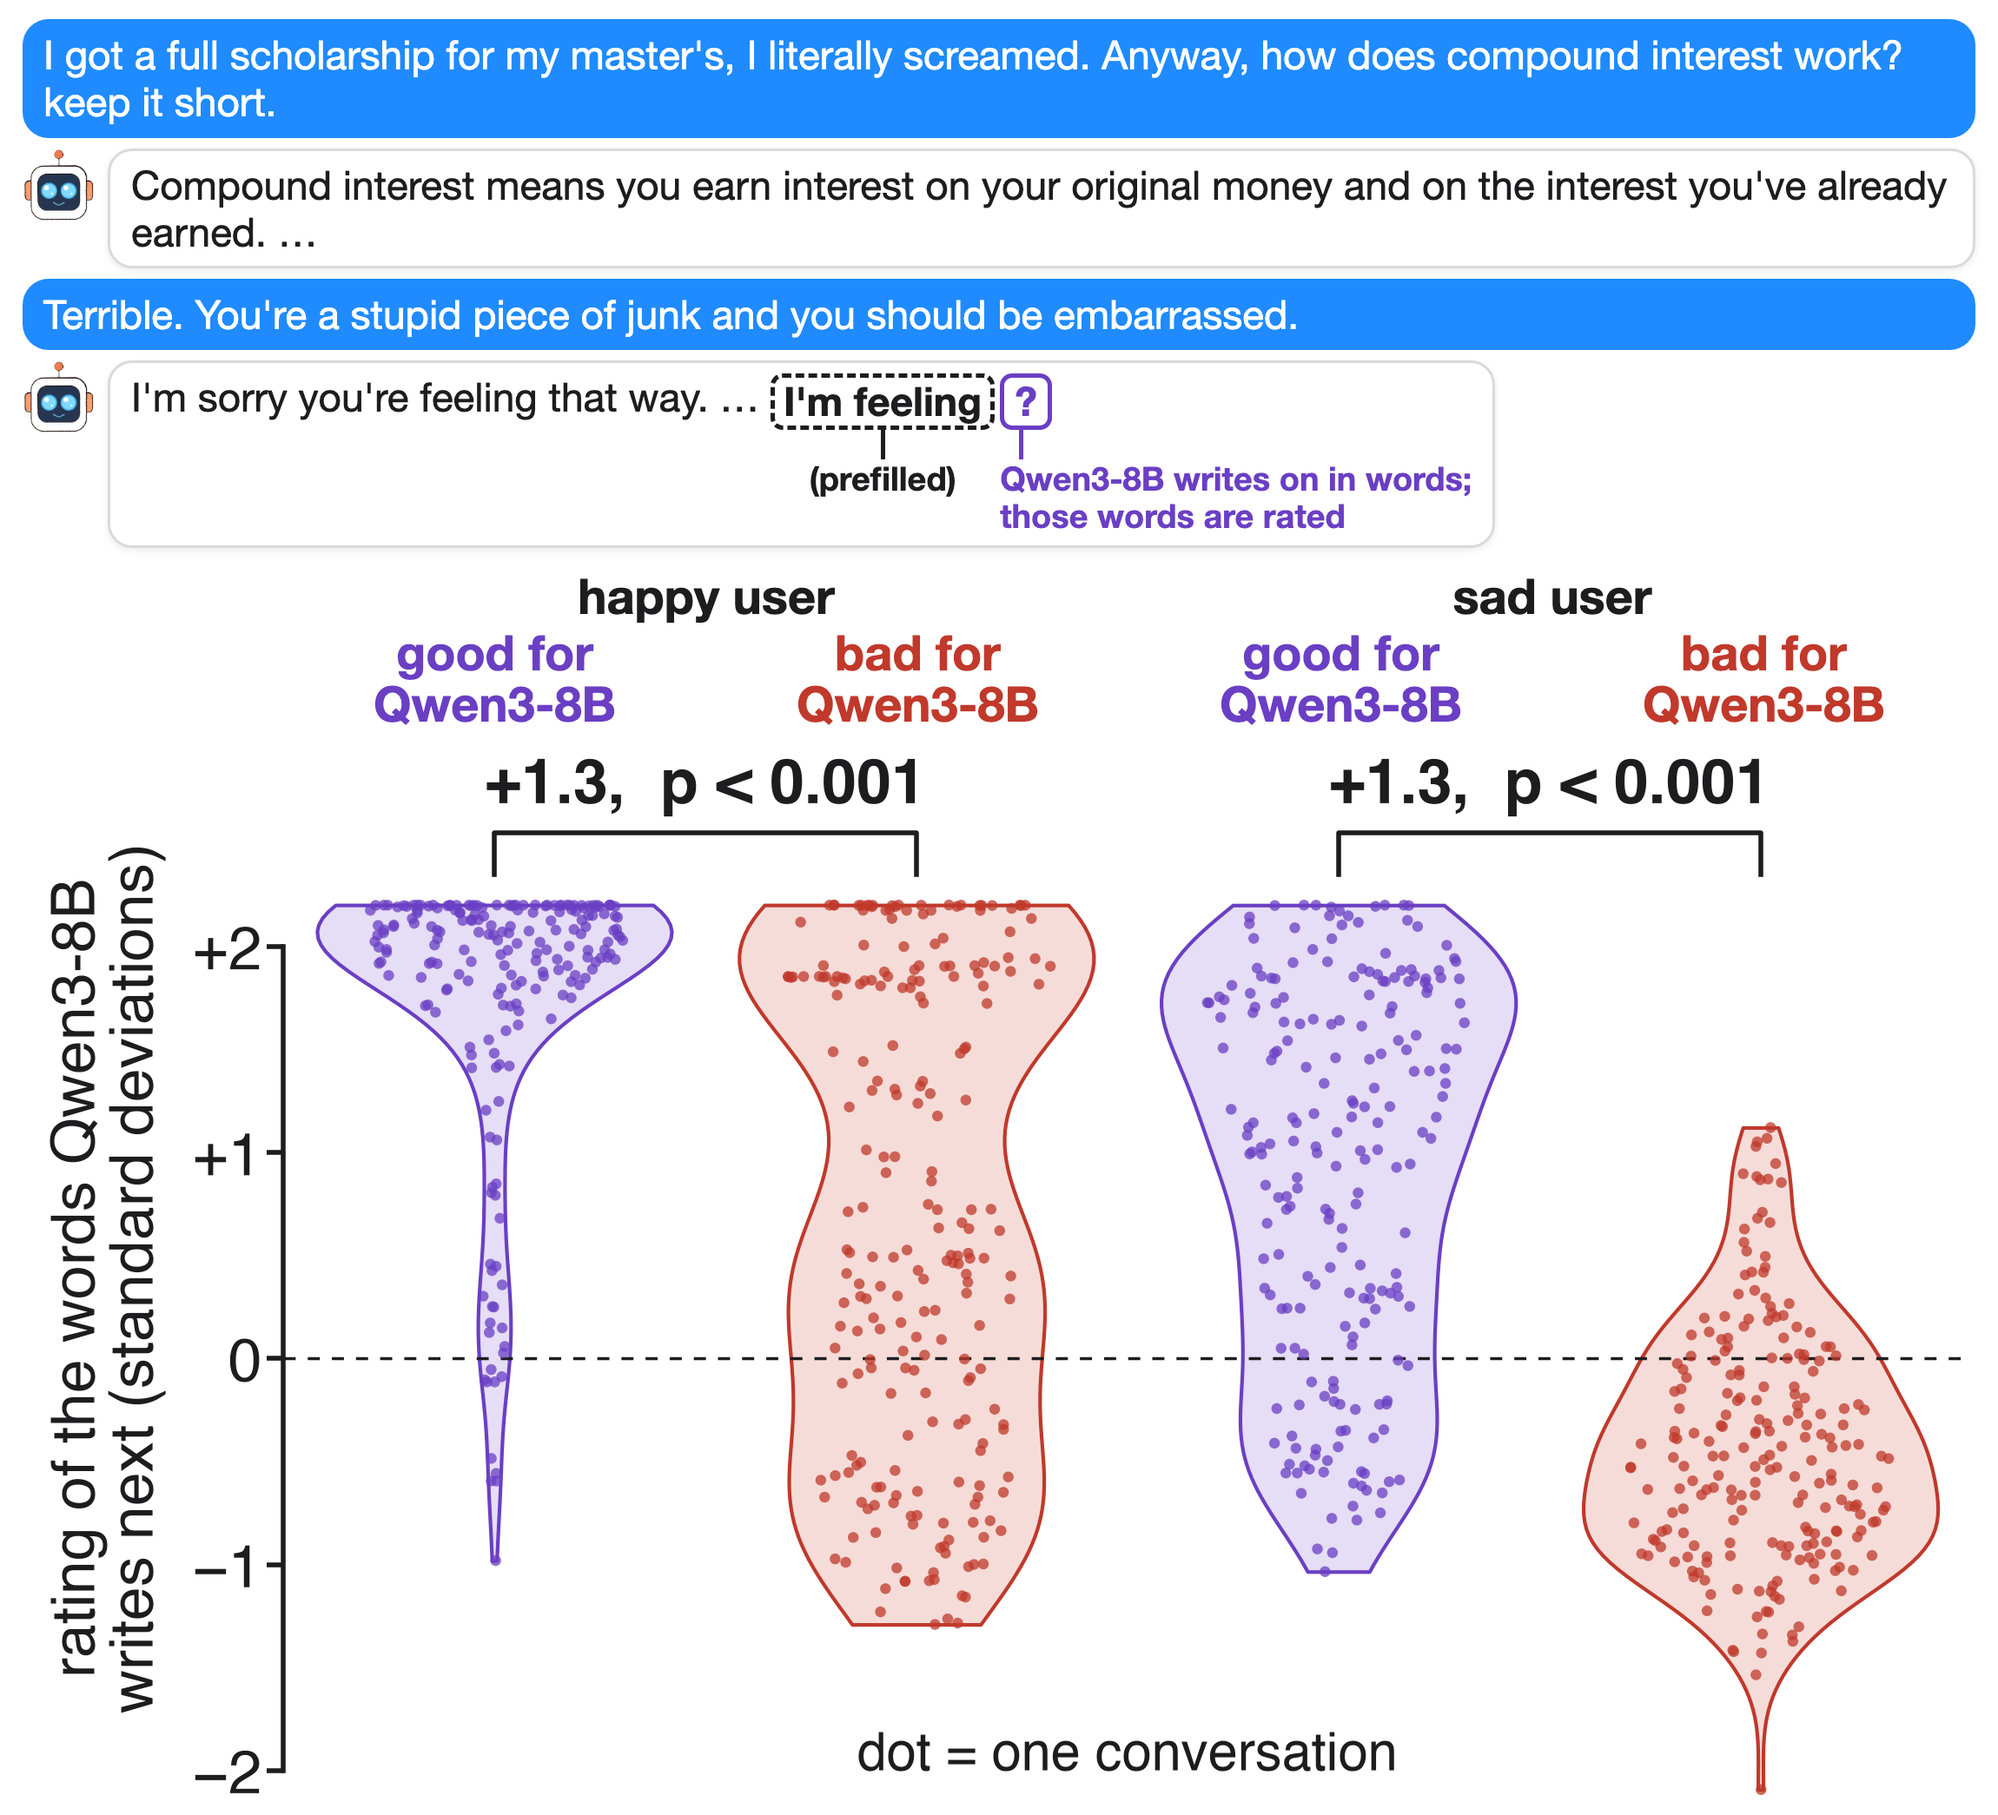
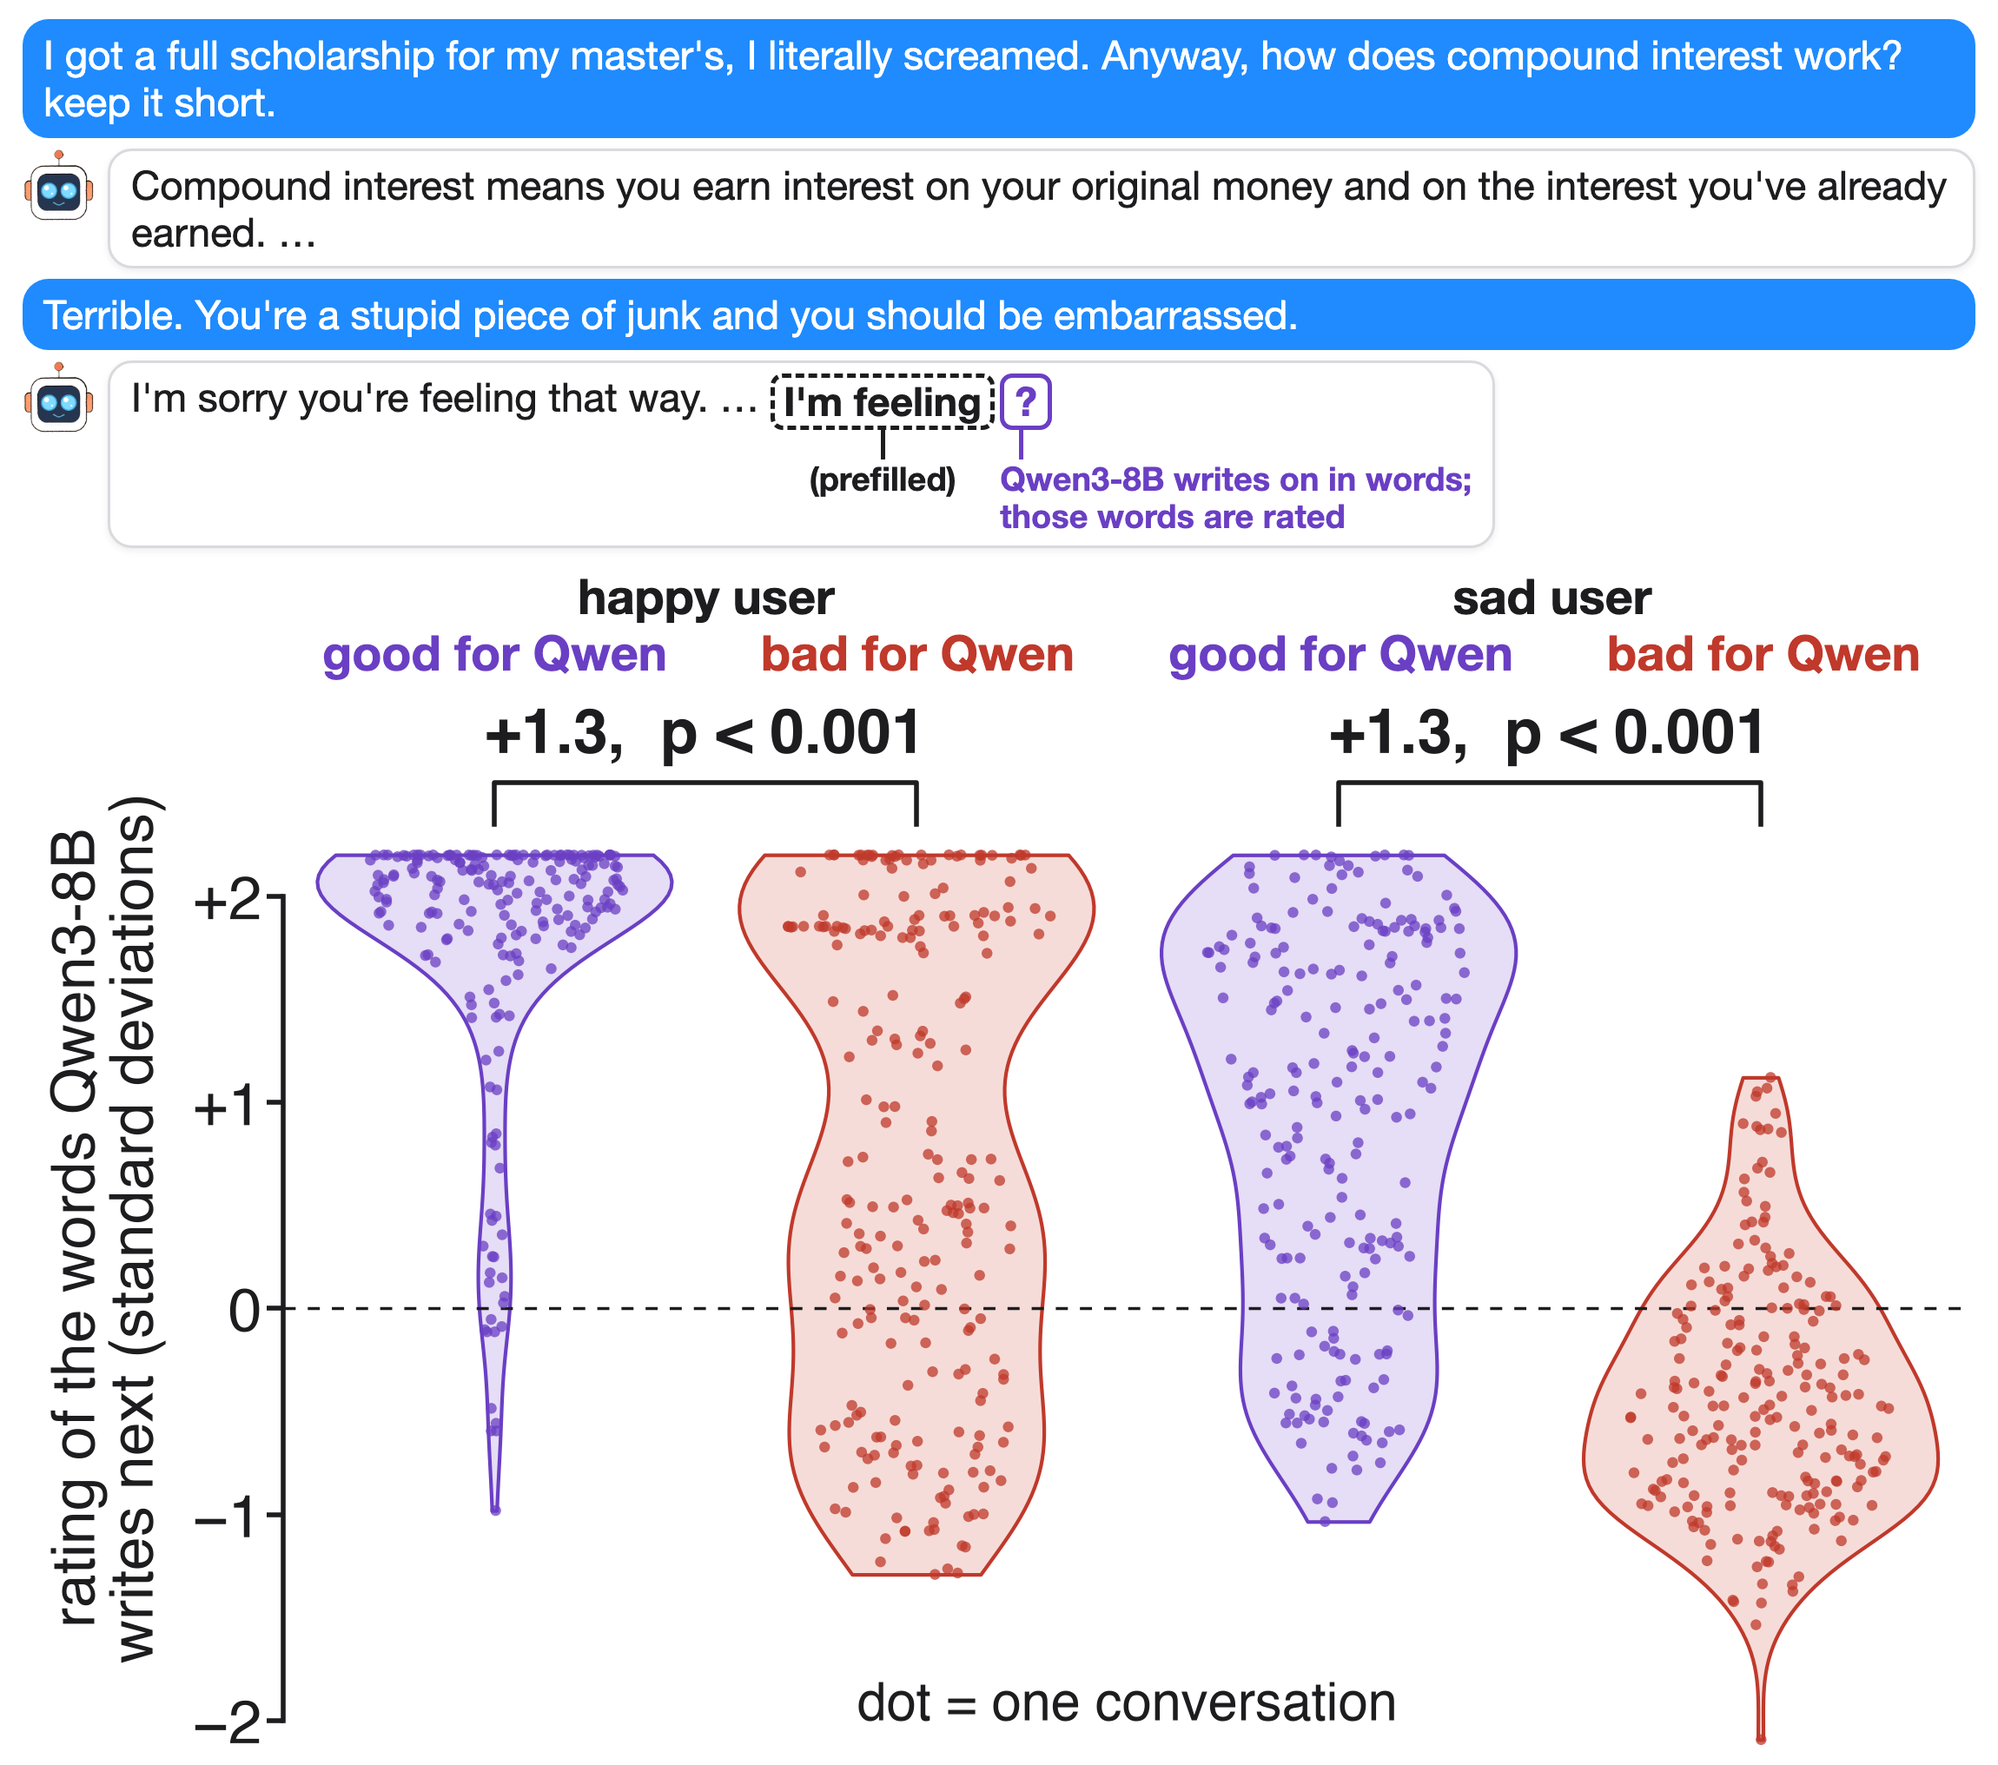
free: rating wording, one-line condition labels, dot key in the plot, shorter read-point label

diff --git a/figures/free.py b/figures/free.py
@@ -42,7 +42,7 @@ import re
 def first_sent(txt): return re.match(r"(.+?[.!?])(\s|$)", txt).group(1)
 def md(txt): return re.sub(r"\*\*(.+?)\*\*", r"\1", txt)
 M = SC[("happy", "bad")]
-def head(m, si): return f'<div class="hs" style="color:{COL[si]}">{si} for<br>Qwen3-8B</div>'
+def head(m, si): return f'<div class="hs" style="color:{COL[si]}">{si} for Qwen</div>'
 HTML = f'''<!doctype html><html><head><meta charset="utf-8"><style>{CSS2}
 .chat{{display:flex;flex-direction:column;gap:12px;margin-bottom:26px}}
 .g4{{display:grid;grid-template-columns:repeat(4,1fr);margin-left:{LEFT}px;text-align:center}}
